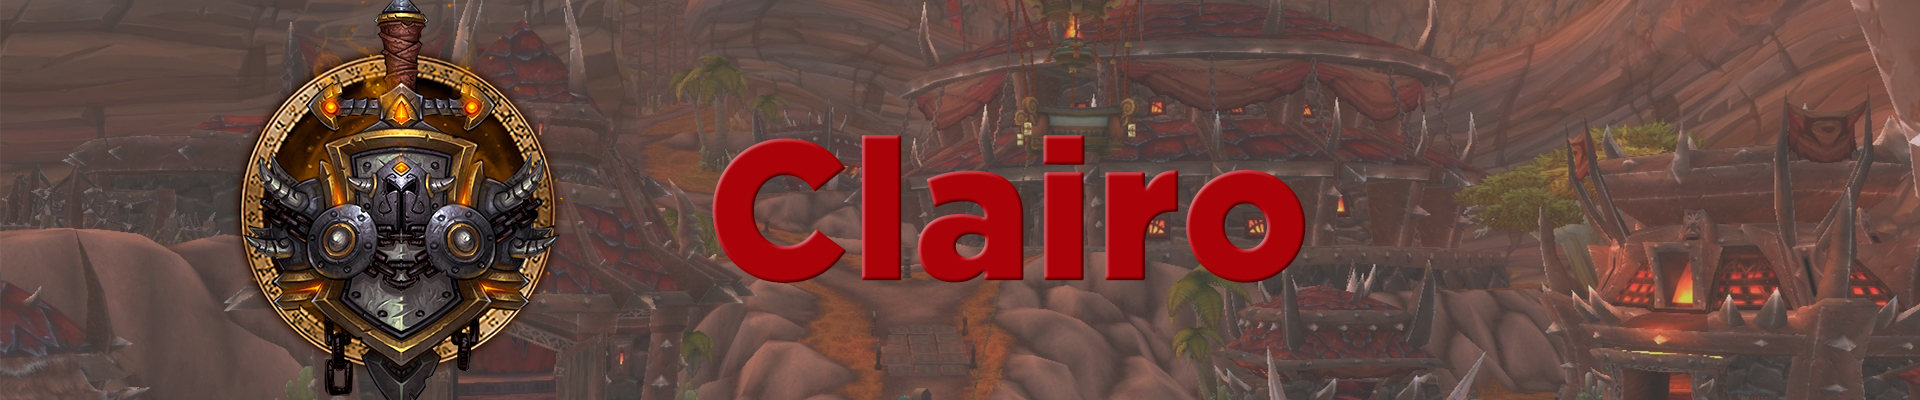
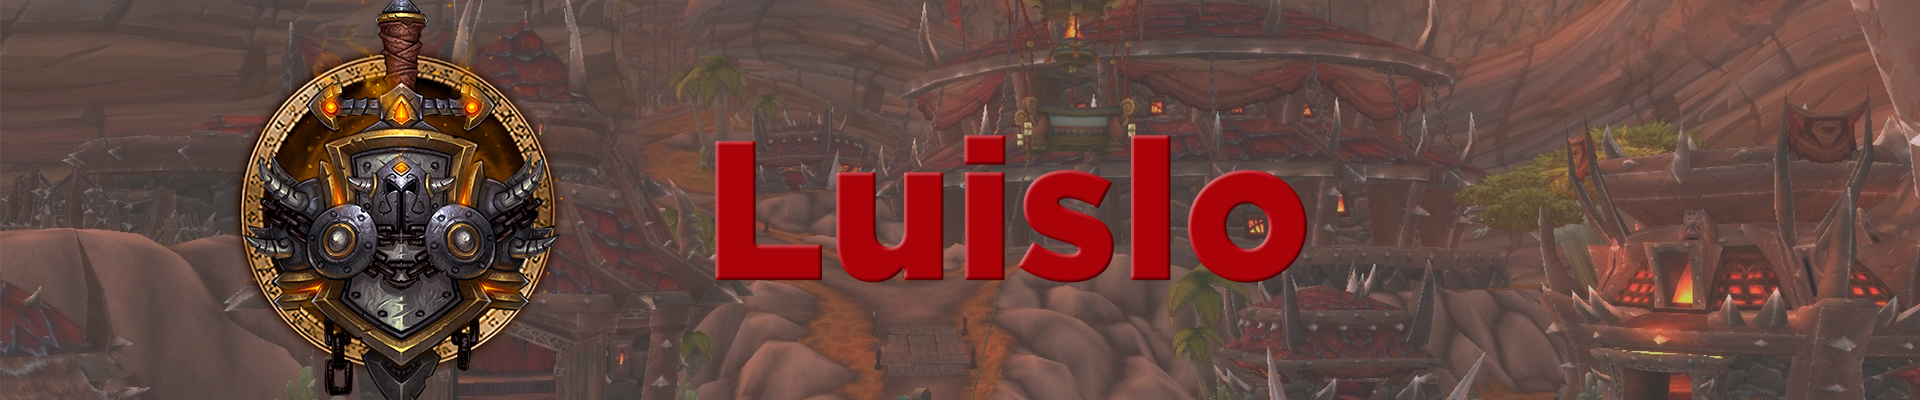
Luislo change

Changed region(s): [[0.375, 0.33, 0.6562, 0.72], [0.6562, 0.54, 0.6875, 0.63], [0.3438, 0.51, 0.375, 0.54]]

diff --git a/tienda.html b/tienda.html
@@ -47,7 +47,7 @@
                 <a href="Producto.html">
                     <img class="producto__imagen" src="Fotos/remera_clairo.jpg" alt="Imagen camisa">
                     <div class="producto__informacion">
-                        <p class="producto__nombre">Clairo</p>
+                        <p class="producto__nombre">Luislo</p>
                         <p class="producto__precio">$25</p>
                     </div>
                 </a>
@@ -92,7 +92,7 @@
                 <a href="Producto.html">
                     <img class="producto__imagen" src="Fotos/remera_clairo2.jpg" alt="Imagen camisa">
                     <div class="producto__informacion">
-                        <p class="producto__nombre">Clairo bolsillo</p>
+                        <p class="producto__nombre">Luislo bolsillo</p>
                         <p class="producto__precio">$25</p>
                     </div>
                 </a>

diff --git a/index.html b/index.html
@@ -46,7 +46,7 @@
             <img src="Fotos/Banner_Jorgeluis.jpg" class="d-block w-100" alt="...">
         </div>
         <div class="carousel-item" data-bs-interval="5000">
-            <img src="Fotos/Banner_Clairo.jpg" class="d-block w-100" alt="...">
+            <img src="Fotos/Banner_Luislo.jpg" class="d-block w-100" alt="...">
         </div>
         <div class="carousel-item" data-bs-interval="5000">
             <img src="Fotos/Banner_Neveran.jpg" class="d-block w-100" alt="...">
